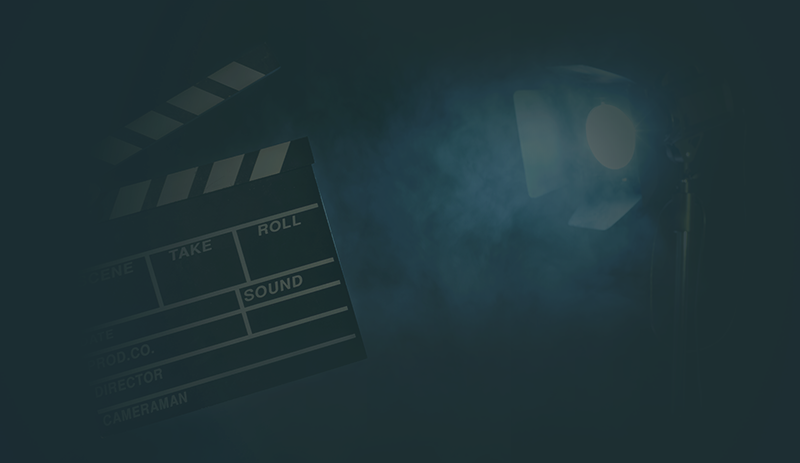
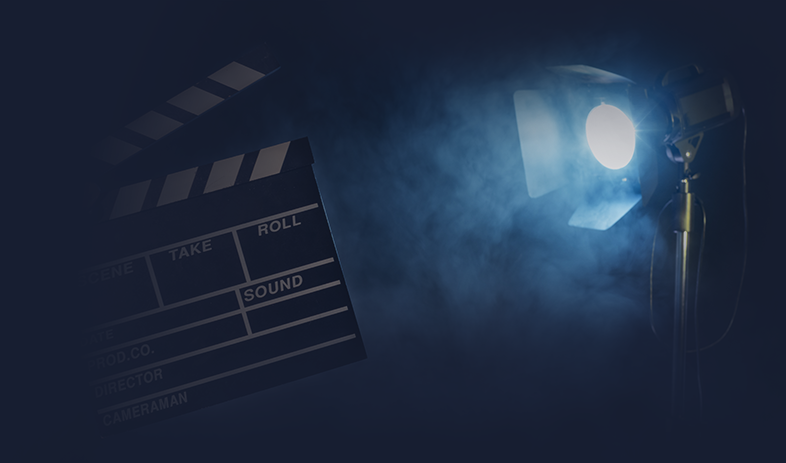
layout and design amendements

diff --git a/stylesheets/moive_nav.css b/stylesheets/moive_nav.css
@@ -2,8 +2,8 @@
   position: fixed;
   bottom: 0;
   width: 100vw;
-  height: 20rem;
-  background: #12192c;
+  height: 17rem;
+  background: #171e31;
 }
 
 .movie_nav__card_container {
@@ -17,24 +17,23 @@
 .movie_nav__card {
   position: relative;
   display: block;
-  height: 20rem;
+  height: 17rem;
   width: 20rem;
   margin: 0rem 2rem;
-  border-radius: 0.5rem;
 }
 
 .moive_nav__img {
   display: block;
   clip-path: circle(50% at 50% 50%);
-  width: 12rem;
-  height: 12rem;
+  width: 8rem;
+  height: 8rem;
   margin: 1rem auto;
   object-fit: cover;
 }
 
 .moive_nav_info {
   position: absolute;
-  top: 12rem;
+  top: 9rem;
   width: 100%;
   height: 7rem;
   margin: 1rem auto;

diff --git a/index.html b/index.html
@@ -32,16 +32,16 @@
     <main class="main">
       <img
         class="content__img"
-        src="./img/movie_bg6.png"
+        src="./img/movie_bg8.png"
         alt="movie clapper board and light"
       />
       <section class="main__container">
         <article class="content">
           <div class="content__header_div">
-            <h2 class="content__h2">Movie Database</h2>
             <h1 class="content__h1">
               MOVIE PREVIEWS FOR <span class="content__h1_span">YOU</span>
             </h1>
+            <h2 class="content__h2">Browse the latest movies below...</h2>
           </div>
         </article>
       </section>

diff --git a/stylesheets/content.css b/stylesheets/content.css
@@ -1,8 +1,10 @@
 .content__img {
   position: absolute;
   width: auto;
-  height: 100%;
+  height: 80%;
+  top: 50%;
   right: 0;
+  transform: translateY(-50%);
 }
 
 .content {
@@ -20,20 +22,20 @@
 
 .content__h2 {
   color: #4eb858;
-  font-size: 2rem;
+  font-size: clamp(1.4rem, 2vw, 2rem);
 }
 
 .content__h1 {
   display: block;
   margin: 0 auto;
-  font-size: 5rem;
+  font-size: clamp(3rem, 6vw, 5rem);
   font-weight: 700;
   max-width: 26rem;
   color: white;
 }
 
 .content__h1_span {
-  font-size: 5rem;
+  font-size: clamp(3rem, 6vw, 5rem);
   font-weight: 700;
   color: #4eb858;
 }

diff --git a/stylesheets/main.css b/stylesheets/main.css
@@ -19,7 +19,6 @@ body {
   min-height: 100vh;
   width: 100%;
   height: 100%;
-  /* background: black; */
 }
 
 .header__container {
@@ -33,7 +32,7 @@ body {
 .main {
   position: absolute;
   background: #171e31;
-  height: calc(100% - 24rem);
+  height: calc(100% - 21rem);
   width: 100vw;
 }
 
